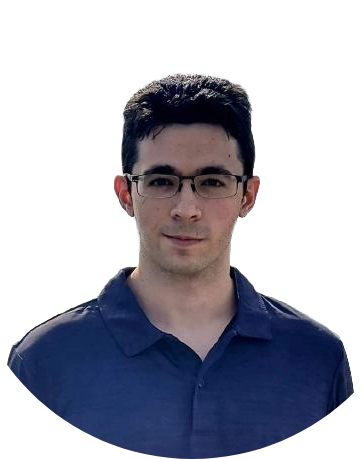
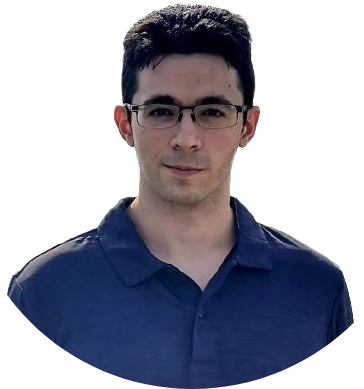
site: the pages without a title block start where a titled page's title does -- Quarto's empty title-block shell takes no space and the home page's role heading drops a body heading's 2rem; About's opening aligns text and portrait tops, the portrait without its 70 fully transparent top rows (pixel-i

diff --git a/styles.css b/styles.css
@@ -69,6 +69,12 @@ li > ul, li > ol, ul > p, li > p, ol > p {
   margin-bottom: 0;
 }
 
+/* A page with no title block (the home page, About) keeps Quarto's empty title-block shell, whose
+   1rem bottom margin pushed its content below where a titled page's title starts */
+#title-block-header:empty {
+  display: none;
+}
+
 /* The home page (design 8b4f15d0): the identity -- the role as the page heading, what the site
    holds under it, the contact links as the kit's buttons -- then the map's entries as columns at
    the full width, wrapping on narrow screens; the jump links open the page below the md width. */
@@ -76,7 +82,9 @@ li > ul, li > ol, ul > p, li > p, ol > p {
   margin-bottom: var(--space-8);
 }
 
+/* The role heading opens the page as a title would: no body heading's 2rem above it */
 .home-identity h1 {
+  margin-top: 0;
   margin-bottom: var(--space-2);
 }
 
@@ -165,14 +173,14 @@ li > ul, li > ol, ul > p, li > p, ol > p {
 /* The About page (design 2fba772c, layout 1a, the essay, as the exploration lays it out; the user's
    review of 9f629c75): the opening -- the portrait first, a cutout cropped into a circle under the
    shoulders and never matted, then the page's title as a small label, the name as the heading and
-   the standfirst (the role as a sentence, then what the site holds), bottom-aligned beside it over
-   a divider; the portrait's column shrinks with the screen and never moves. The background is set
+   the standfirst (the role as a sentence, then what the site holds), top-aligned with it over a
+   divider (the user's second review); the portrait's column shrinks with the screen and never moves. The background is set
    justified (from the sm width up) with a drop cap on its first paragraph (styling, never content); the reading guide sits
    in an accent-edged panel; the contact links, with their icons, close the page centred. */
 .about-opening {
   display: grid;
   grid-template-columns: clamp(6.5rem, 28vw, 13rem) minmax(0, 1fr);
-  align-items: end;
+  align-items: start;
   gap: var(--space-8);
   margin-bottom: var(--space-8);
   padding-bottom: var(--space-8);
